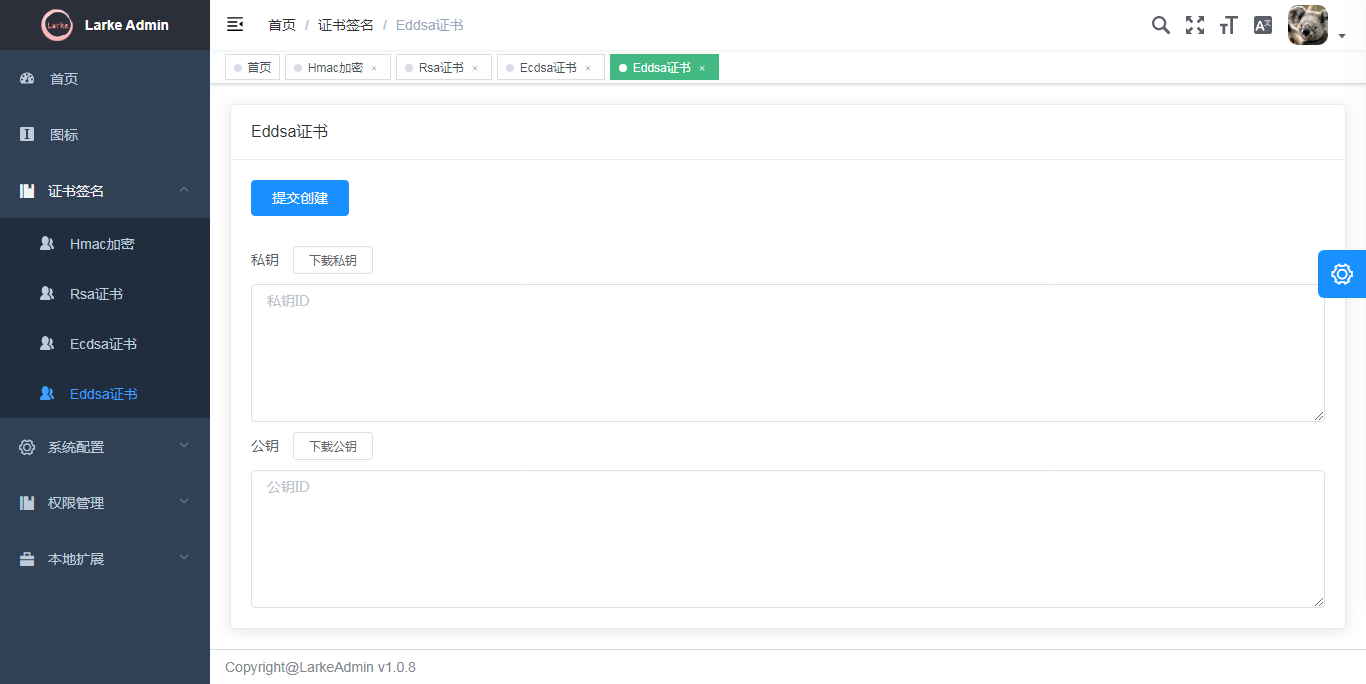
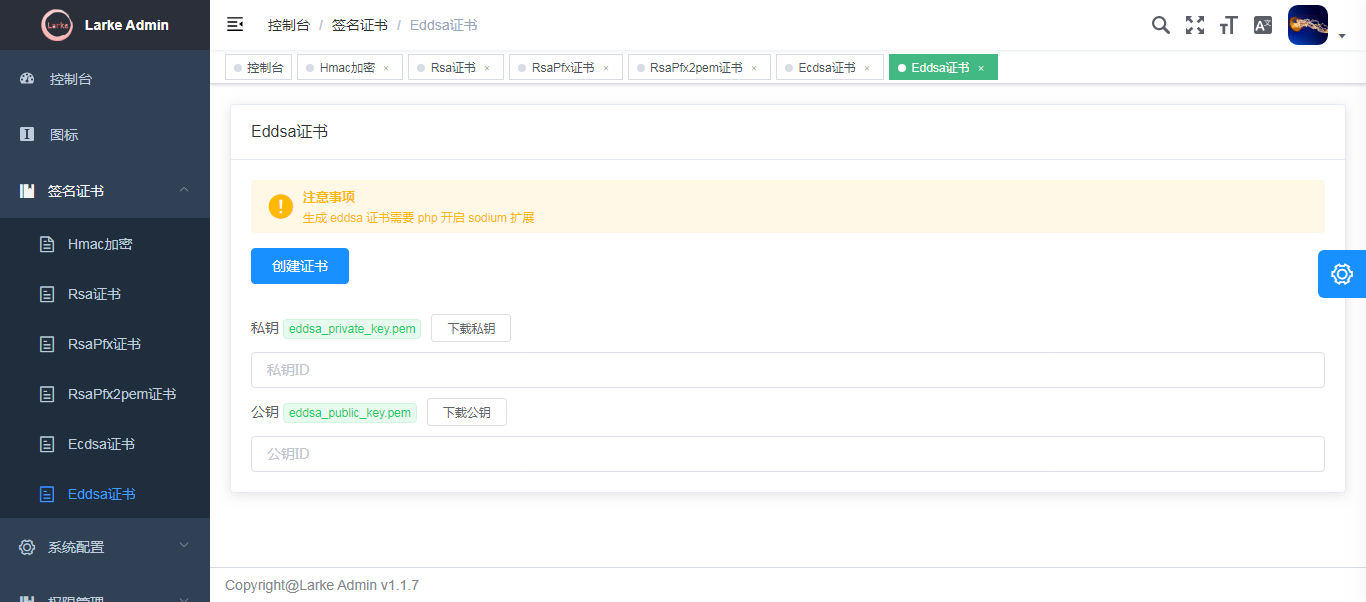
更新截图

diff --git a/resource/assets/sign-cert/router.js b/resource/assets/sign-cert/router.js
@@ -25,7 +25,7 @@ const route = {
       name: 'SignCertHmac',
       meta: {
         title: 'SignCertHmac',
-        icon: 'peoples',
+        icon: 'el-icon-document',
         roles: ['larke-admin.sign-cert.hmac']
       }
     },
@@ -36,7 +36,7 @@ const route = {
       name: 'SignCertRsa',
       meta: {
         title: 'SignCertRsa',
-        icon: 'peoples',
+        icon: 'el-icon-tickets',
         roles: ['larke-admin.sign-cert.rsa']
       }
     },
@@ -47,7 +47,7 @@ const route = {
       name: 'SignCertRsaPfx',
       meta: {
         title: 'SignCertRsaPfx',
-        icon: 'peoples',
+        icon: 'el-icon-tickets',
         roles: ['larke-admin.sign-cert.rsa-pfx']
       }
     },  
@@ -58,7 +58,7 @@ const route = {
       name: 'SignCertRsaPfxPem',
       meta: {
         title: 'SignCertRsaPfxPem',
-        icon: 'peoples',
+        icon: 'el-icon-tickets',
         roles: ['larke-admin.sign-cert.rsa-pfx-pem']
       }
     },
@@ -69,7 +69,7 @@ const route = {
       name: 'SignCertEcdsa',
       meta: {
         title: 'SignCertEcdsa',
-        icon: 'peoples',
+        icon: 'el-icon-tickets',
         roles: ['larke-admin.sign-cert.ecdsa']
       }
     },  
@@ -80,7 +80,7 @@ const route = {
       name: 'SignCertEddsa',
       meta: {
         title: 'SignCertEddsa',
-        icon: 'peoples',
+        icon: 'el-icon-tickets',
         roles: ['larke-admin.sign-cert.eddsa']
       }
     },  

diff --git a/README.md b/README.md
@@ -16,13 +16,12 @@
 
 ### 截图预览
 
-![Hmac](https://user-images.githubusercontent.com/24578855/103189088-0d7f2580-4906-11eb-8992-a9713c4714e7.png)
-
-![Rsa](https://user-images.githubusercontent.com/24578855/103189089-0e17bc00-4906-11eb-8be3-c122dbf7e5bc.png)
-
-![Ecdsa](https://user-images.githubusercontent.com/24578855/103189081-09530800-4906-11eb-9d20-29bafec2430f.png)
-
-![Eddsa](https://user-images.githubusercontent.com/24578855/103189085-0c4df880-4906-11eb-949c-0689818bb651.png)
+![Ecdsa](https://user-images.githubusercontent.com/24578855/109032140-57b33600-7700-11eb-9735-2910e87abfb5.png)
+![Eddsa](https://user-images.githubusercontent.com/24578855/109032147-597cf980-7700-11eb-8ba4-8065d09187e2.png)
+![Hmac](https://user-images.githubusercontent.com/24578855/109032151-5a159000-7700-11eb-844d-3a21cd41780a.png)
+![Rsa](https://user-images.githubusercontent.com/24578855/109032156-5aae2680-7700-11eb-8b87-36c43e87dbf2.png)
+![RsaPfx](https://user-images.githubusercontent.com/24578855/109032160-5b46bd00-7700-11eb-8a40-b169a01d1b9c.png)
+![RsaPfx2pem](https://user-images.githubusercontent.com/24578855/109032162-5bdf5380-7700-11eb-9103-f64a5fac8e55.png)
 
 
 更多截图 
